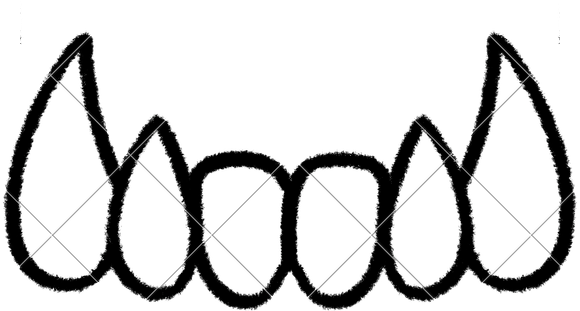
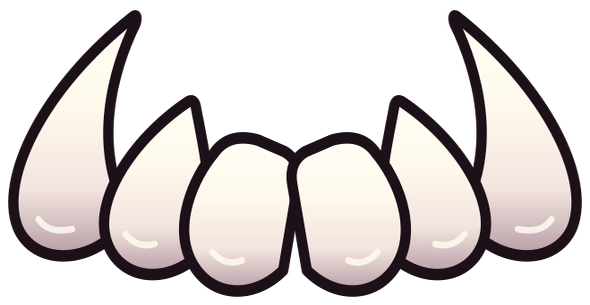
単騎強襲の牙を清書し予備動作と噛みつきの残像を調整

diff --git a/Assets/Scripts/UI/RonAnimationUI.Bonus.cs b/Assets/Scripts/UI/RonAnimationUI.Bonus.cs
@@ -194,29 +194,40 @@ namespace KillingMahjong.UI
         {
             const float FadeIn = .36f;
             const float Retreat = .30f;
-            const int TrailCopies = 8;
+            const float WindUp = .065f;
             var jaws = new GameObject("BitingFangs", typeof(RectTransform), typeof(CanvasGroup));
             jaws.transform.SetParent(parent, false);
             var opacity = jaws.GetComponent<CanvasGroup>();
             opacity.blocksRaycasts = false;
 
             var images = new RawImage[2];
-            var trails = new RawImage[2, TrailCopies];
-            var bite = new[] { tilePosition + new Vector2(-15, 57), tilePosition + new Vector2(14, -58) };
-            var ready = new[] { bite[0] + new Vector2(-136, 99), bite[1] + new Vector2(136, -99) };
+            var trails = new RectTransform[2];
+            var bite = new[] { tilePosition + new Vector2(-14, 44), tilePosition + new Vector2(14, -44) };
+            var ready = new[] { bite[0] + new Vector2(-133, 102), bite[1] + new Vector2(133, -102) };
+            var open = new Vector2[2];
             for (int jaw = 0; jaw < images.Length; jaw++)
             {
                 var texture = Resources.Load<Texture2D>(jaw == 0 ? "UI/AssaultFangsUpper" : "UI/AssaultFangsLower");
-                for (int copy = 0; copy < TrailCopies; copy++)
-                {
-                    var trail = CreateFangImage(jaws.transform, "FangTrail", texture);
-                    trail.gameObject.SetActive(false);
-                    trails[jaw, copy] = trail;
-                }
+                var direction = (ready[jaw] - bite[jaw]).normalized;
+                open[jaw] = ready[jaw] + direction * 14f;
+                var trailRoot = new GameObject("FangTrail", typeof(RectTransform)).GetComponent<RectTransform>();
+                trailRoot.SetParent(jaws.transform, false);
+                float angle = Mathf.Atan2(direction.y, direction.x) * Mathf.Rad2Deg;
+                trailRoot.localRotation = Quaternion.Euler(0, 0, angle);
+                var trail = CreateFangImage(trailRoot, "Stretch", texture);
+                trail.rectTransform.localRotation = Quaternion.Euler(0, 0, 20 - angle);
+                trail.color = new Color(1f, .82f, .77f, .70f);
+                trailRoot.gameObject.SetActive(false);
+                trails[jaw] = trailRoot;
                 images[jaw] = CreateFangImage(jaws.transform, "Fang", texture);
                 images[jaw].rectTransform.anchoredPosition = ready[jaw];
             }
             foreach (var image in images) image.transform.SetAsLastSibling();
+            var impact = new GameObject("FangImpact", typeof(RectTransform), typeof(PixelShapeGraphic))
+                .GetComponent<PixelShapeGraphic>();
+            impact.transform.SetParent(jaws.transform, false);
+            impact.raycastTarget = false;
+            impact.rectTransform.anchoredPosition = tilePosition;
 
             for (float elapsed = 0; elapsed < FadeIn; elapsed += Time.deltaTime)
             {
@@ -224,6 +235,13 @@ namespace KillingMahjong.UI
                 yield return null;
             }
             opacity.alpha = 1;
+            for (float elapsed = 0; elapsed < WindUp; elapsed += Time.deltaTime)
+            {
+                float progress = Mathf.SmoothStep(0, 1, (elapsed + Time.deltaTime) / WindUp);
+                for (int jaw = 0; jaw < images.Length; jaw++)
+                    images[jaw].rectTransform.anchoredPosition = Vector2.Lerp(ready[jaw], open[jaw], progress);
+                yield return null;
+            }
             for (int jaw = 0; jaw < images.Length; jaw++) images[jaw].rectTransform.anchoredPosition = bite[jaw];
             title.alpha = note.alpha = 0;
             AudioManager.Instance?.PlayAssaultSE();
@@ -231,18 +249,19 @@ namespace KillingMahjong.UI
             // 1コマ目で着弾。残像だけを2コマで短くする。
             for (int frame = 0; frame < 2; frame++)
             {
+                float trailLength = frame == 0 ? 1f : .5f;
                 for (int jaw = 0; jaw < images.Length; jaw++)
-                for (int copy = 0; copy < TrailCopies; copy++)
                 {
-                    float fraction = (copy + 1f) / TrailCopies;
-                    var trail = trails[jaw, copy];
-                    trail.rectTransform.anchoredPosition = Vector2.Lerp(bite[jaw], ready[jaw], fraction * (frame == 0 ? 1f : .5f));
-                    trail.color = new Color(1, 1, 1, Mathf.Lerp(.44f, .08f, fraction));
+                    var trail = trails[jaw];
+                    trail.anchoredPosition = Vector2.Lerp(bite[jaw], open[jaw], trailLength * .5f);
+                    trail.localScale = new Vector3(1 + trailLength * .85f, 1, 1);
                     trail.gameObject.SetActive(true);
                 }
+                DrawFangImpact(impact, frame == 0 ? 1f : .5f);
                 yield return null;
             }
             foreach (var trail in trails) trail.gameObject.SetActive(false);
+            impact.gameObject.SetActive(false);
             // 3コマ目は噛みついた姿。そのままさらに2コマ待つ。
             for (int frame = 0; frame < 3; frame++) yield return null;
 
@@ -260,6 +279,17 @@ namespace KillingMahjong.UI
             jaws.SetActive(false);
             Destroy(jaws);
             title.alpha = note.alpha = 1;
+        }
+
+        private static void DrawFangImpact(PixelShapeGraphic impact, float strength)
+        {
+            var color = new Color(1f, .78f, .58f, strength);
+            impact.Begin();
+            impact.Line(new Vector2(-51, 6), new Vector2(-93, -1), 4 * strength, color);
+            impact.Line(new Vector2(-48, -17), new Vector2(-75, -38), 3 * strength, color);
+            impact.Line(new Vector2(49, 7), new Vector2(95, 15), 4 * strength, color);
+            impact.Line(new Vector2(46, 26), new Vector2(70, 49), 3 * strength, color);
+            impact.End();
         }
 
         private static RawImage CreateFangImage(Transform parent, string name, Texture2D texture)
